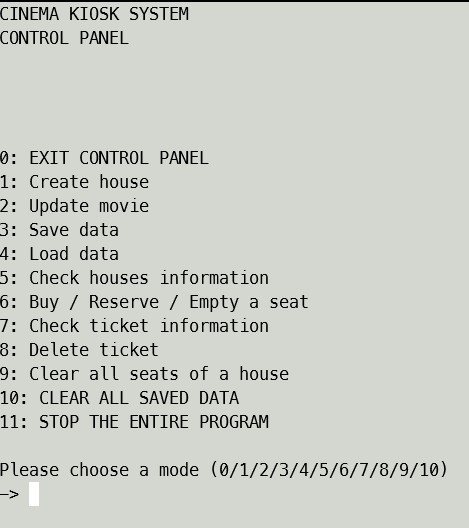
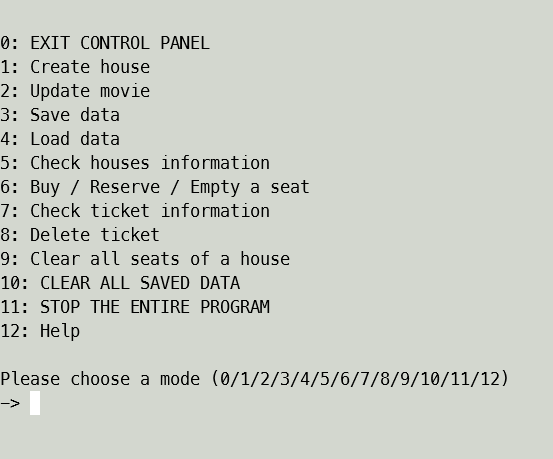
Reconstruct

Changed region(s): [[0.0, 0.0, 1.0, 0.976], [0.2985, 0.8845, 0.4179, 0.915]]

diff --git a/docs/controlPanel.md b/docs/controlPanel.md
@@ -17,10 +17,11 @@ You can do the following things by entering the respective 'mode' option:
 |  3   | [Save saved data](dataStorage.md)                                            |
 |  4   | [Load saved data](dataStorage.md)                                            |
 |  5   | [Check the information of different cinema houses](house.md)                 |
-|  6   | [Manually buy/reserve/empty a seat](userBuySeat.md)                              |
+|  6   | [Manually buy/reserve/empty a seat](userBuySeat.md)                          |
 |  7   | [Check the information of a ticket](ticket.md)                               |
 |  8   | [Delete a ticket](ticket.md)                                                 |
 |  9   | [Clear (empty) all seat of a cinema house](house.md)                         |
 |  10  | [Clear all (including saved) data](dataStorage.md)                           |
 |  11  | Stop the entire program                                                      |
+|  12  | See documentations of this program                                           |
 

diff --git a/docs/dataStorage.md b/docs/dataStorage.md
@@ -1,0 +1,8 @@
+# Data storage
+
+Data is automatically saved locally.
+
+You can manually save and load saved data as an **administrator**,
+just enter mode `3`(Save Data) and `4`(Load Data) in the Control Panel respectively.
+
+Each time saving data will cover the previous saved data.
